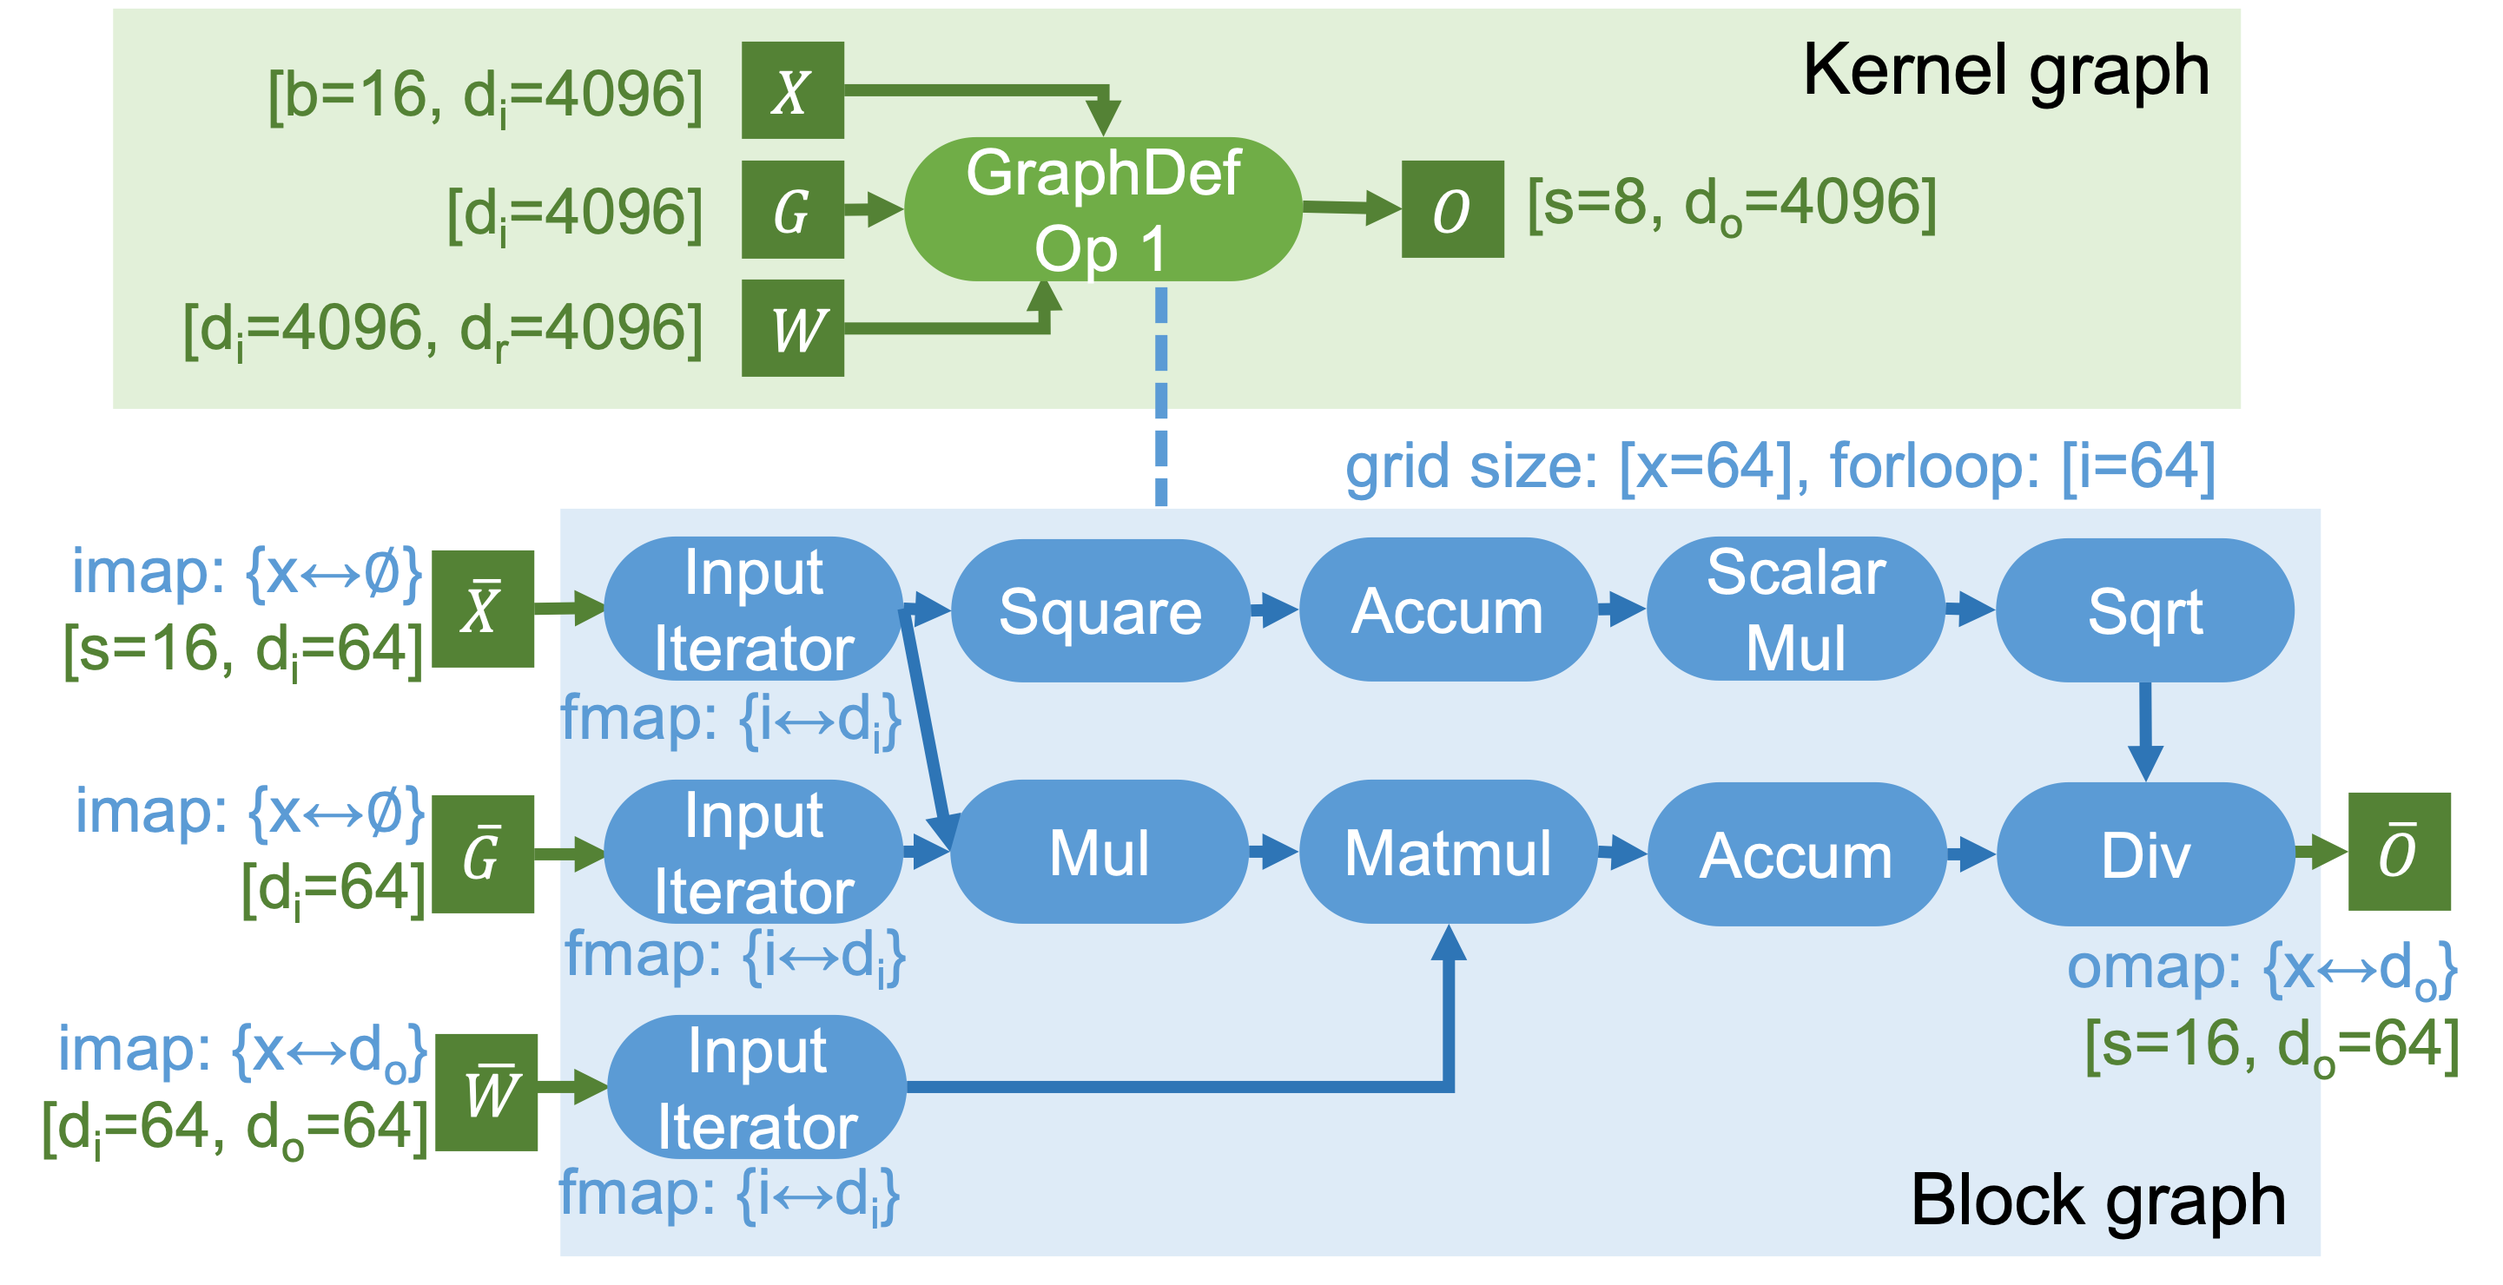
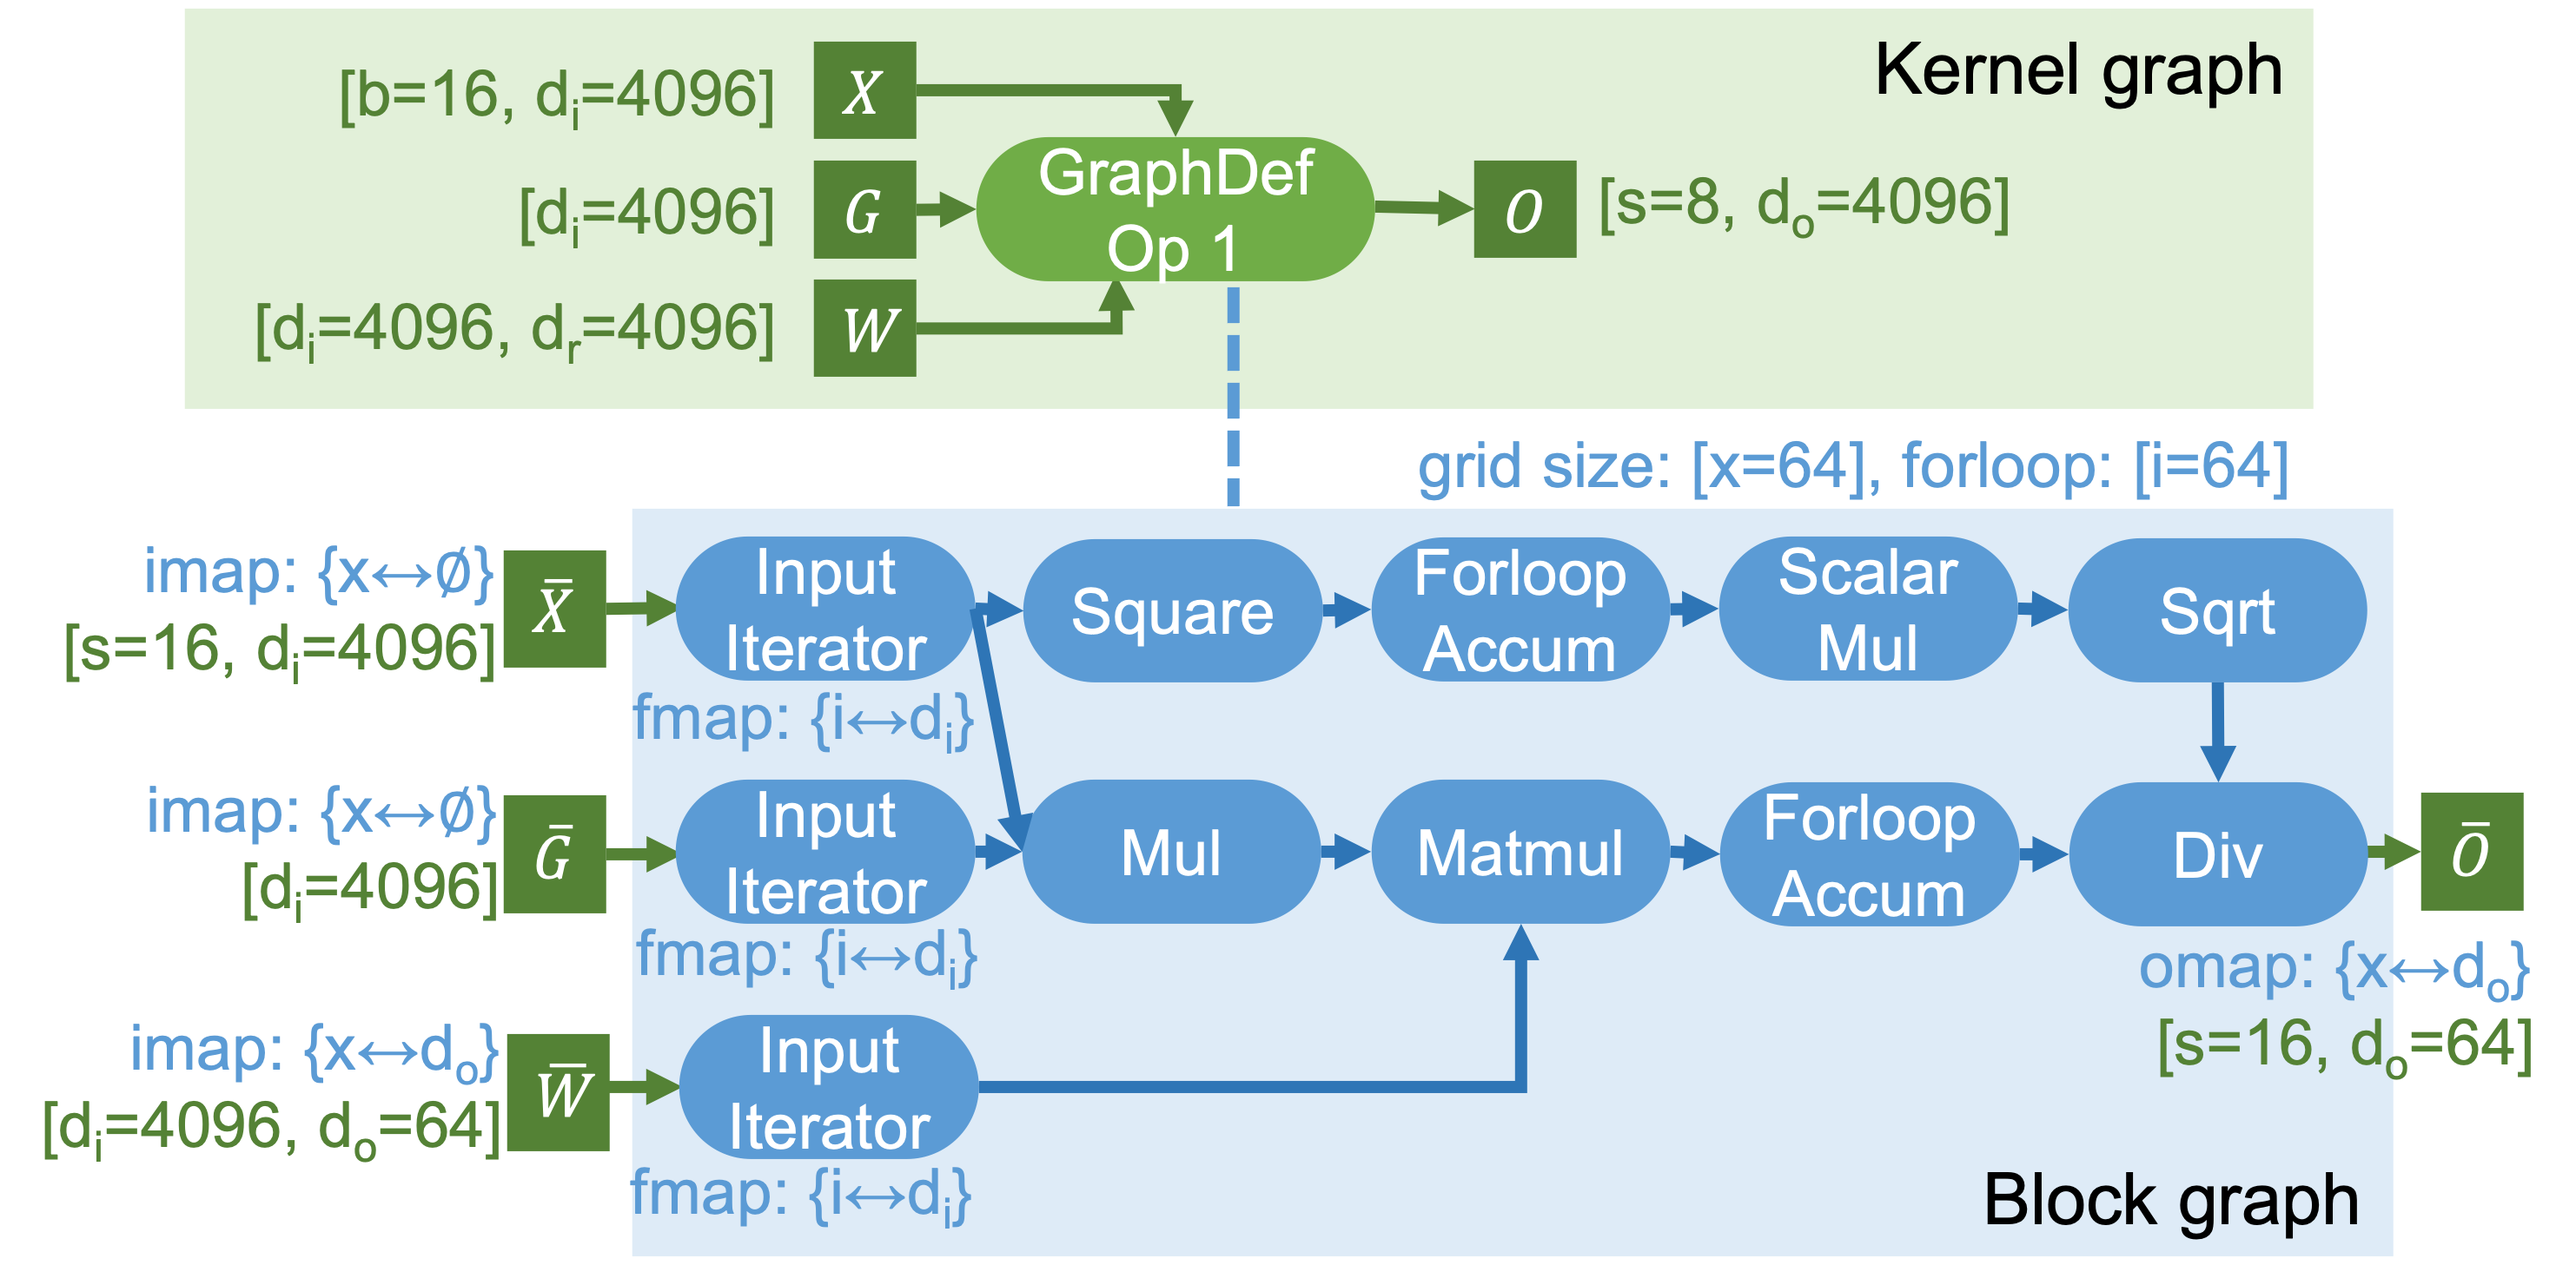
update RMSNorm example

diff --git a/docs/source/tutorials/rms-norm-linear.rst b/docs/source/tutorials/rms-norm-linear.rst
@@ -6,12 +6,18 @@ Superoptimizing RMSNorm and Linear
 Introduction
 ============
 
-This tutorial demonstates how to generate fast kernels that compute RMSNorm (https://arxiv.org/pdf/1910.07467) following by a linear layer. The forward pass for RMSNorm can be represented as follows.
+This tutorial demonstates how to generate fast kernels that compute RMSNorm (https://arxiv.org/pdf/1910.07467) following by a linear layer, whose computation graph is shown as follows.
+
+.. image:: /tutorials/images/rms_norm_linear_original.png
+    :alt: RMSNorm and Linear
+    :align: center
+
+The forward pass for RMSNorm can be represented as follows.
 
 .. math::
    y_i = \frac{ x_i * g_i }{ \sqrt{\frac{1}{n} \sum_{i=1}^{n}{x_i^2}} }
 
-Instead of launching separate kernels for these two layers, Mirage is able to automatically generate a customized kernel that fuses the computation of RMSNorm and the following matrix multiplication. The following code snippet shows how to use Mirage to automatically generate an optimized kernel for RMSNorm + Linear.
+Existing ML systems generally launch RMSNorm and the following MatMul as two separate kernels, since RMSNorm includes reduction/broadcast, making it hard to directly fuse it with other computation. We can use Mirage to automatically generate a highly optimized kernel that fuses RMSNorm and MatMul:
 
 .. code-block:: Python
 
@@ -24,13 +30,17 @@ Instead of launching separate kernels for these two layers, Mirage is able to au
     graph.mark_output(O)
     optimized_graph = mi.superoptimize(graph)
 
-The uGraph of the optimized kernel is shown as follows.
+Mirage introduces uGraph, a multi-level graph structure to represent the computation of a GPU kernel. The uGraph of the discovered kernel is as follows. Instead of launching separate kernels, the Mirage-discovered kernel leverages the commutativity of the division in RMSNorm and the multiplication in MatMul, moving division after MatMul. This allows Mirage to load the input tensor X once to compute both the denominator of RMSNorm and MatMul. The optimized kernel is 1.5-1.7x faster than the original kernel.
 
 .. image:: /tutorials/images/rms_norm_linear_ugraph.png
    :alt: uGraph for RMSNorm and Linear
    :align: center
 
-The object `optimized_graph` can run as a function, and doing so will let Mirage transpile the uGraph into CUDA code, compile the code for execution, and launch the compiled kernel.
+.. image:: /tutorials/images/rms_norm_linear_performance.png
+   :alt: Performance comparison with PyTorch
+   :align: center
+
+The object `optimized_graph` can directly run as a function, and doing so will let Mirage transpile the uGraph into CUDA code, compile the code for execution, and launch the compiled kernel.
 
 .. code-block:: Python
 
@@ -41,8 +51,3 @@ The object `optimized_graph` can run as a function, and doing so will let Mirage
         torch.randn(4096, 4096, dtype=torch.float16, device='cuda:0')
     ]
     optimized_graph(input_tensors)
-
-
-.. image:: /tutorials/images/rms_norm_linear_performance.png
-   :alt: Performance comparison with PyTorch
-   :align: center
